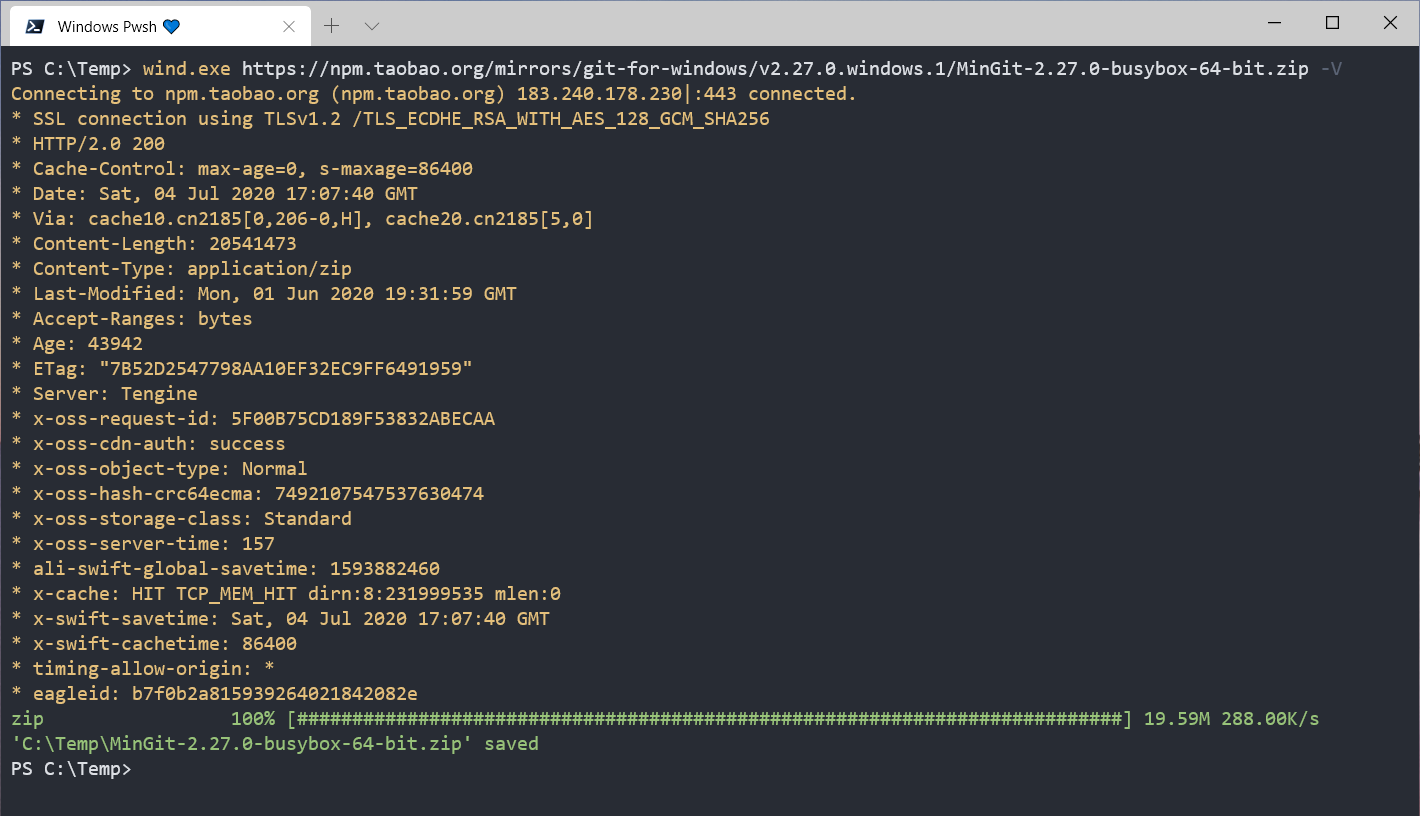
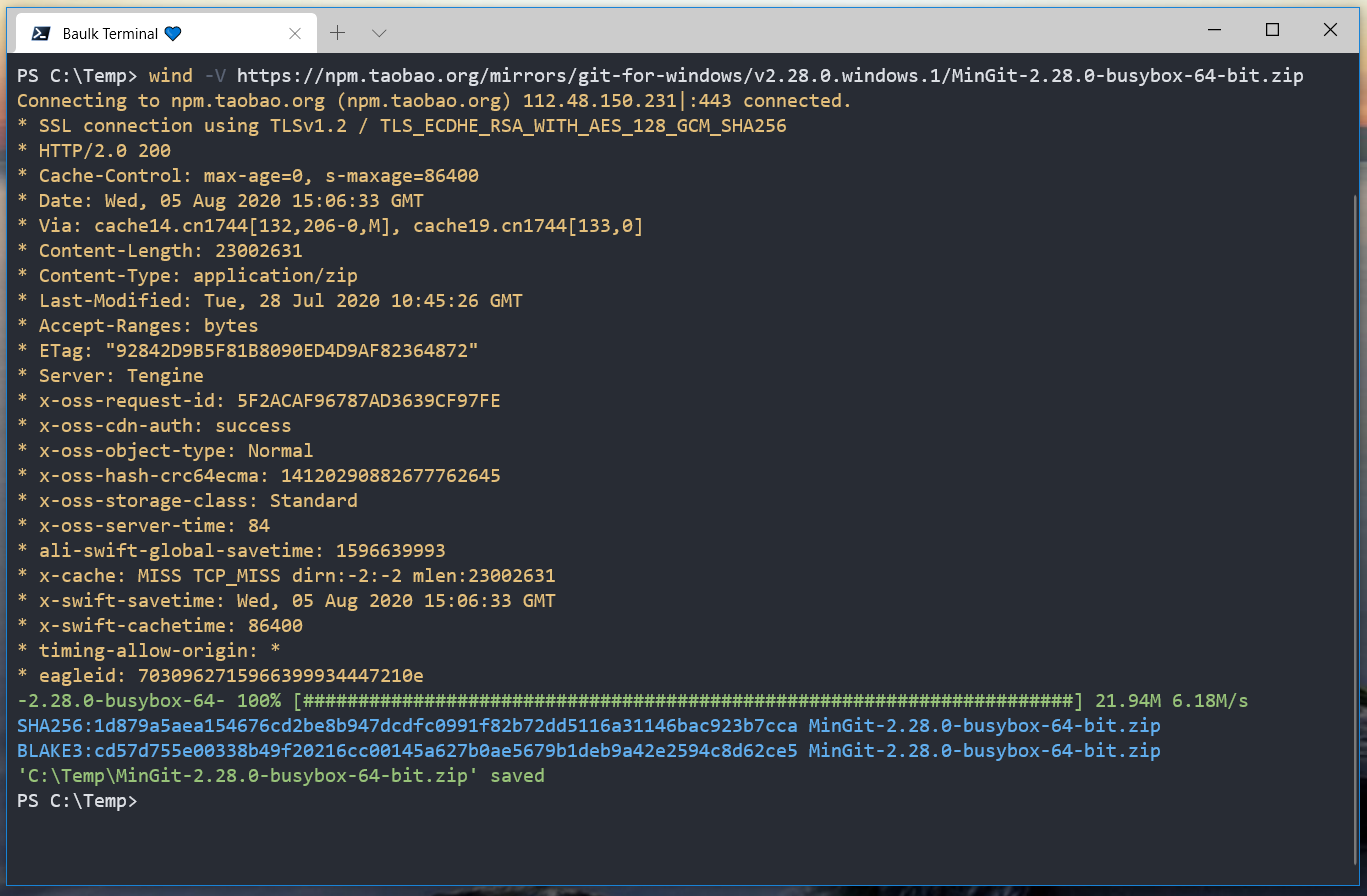
Update images

diff --git a/README.md b/README.md
@@ -52,6 +52,8 @@ Download success:
 
 ![](./docs/images/wind2.png)
 
+<!--![](https://s1.ax1x.com/2020/08/05/a6UlnK.png)-->
+
 ## Download
 
 Download the latest version of Baulk: [https://github.com/fcharlie/belautils/releases/latest](https://github.com/fcharlie/belautils/releases/latest)
